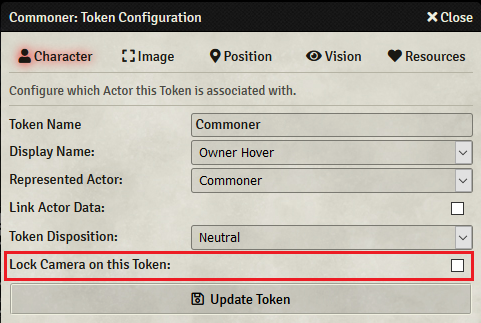
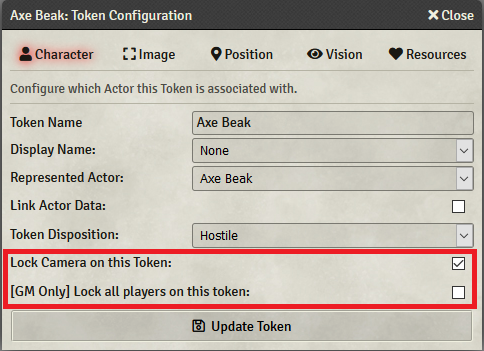
updated readme and screenshot

diff --git a/README.md b/README.md
@@ -1,4 +1,5 @@
 # camera-follow-token
-A module for FoundryVTT. Adds a checkbox to the Token configuration window which sets the camera to follow that token.
+A module for FoundryVTT. Adds a checkbox to the Token configuration window which sets the camera to follow that token. GM is given an extra option to make all players' cameras follow. on the token. 
+Due to using the Token Configuration window, players will need to have permissions for 'Configure Token Settings' to use this module independently of the GM. 
 
 ![](screenshot.png)
